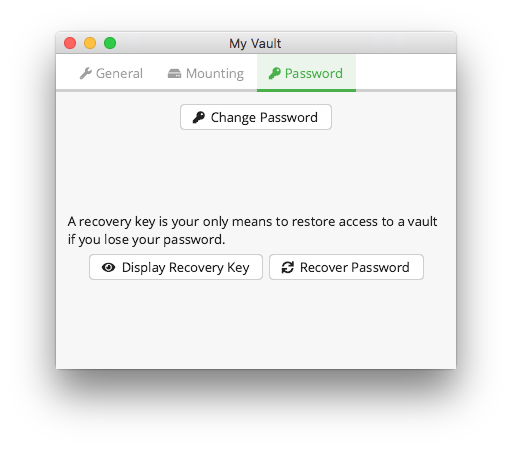
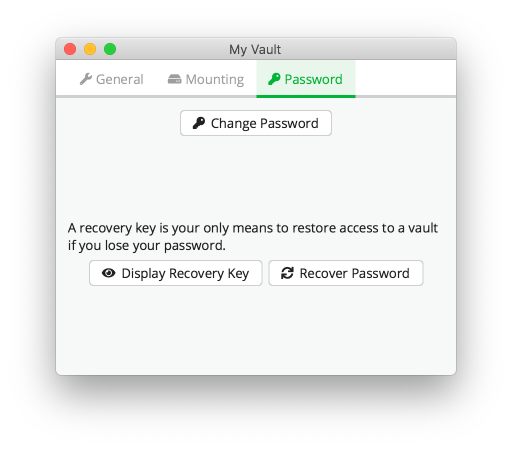
Added Vault option pictures + minor refinements

Changed region(s): [[0.0938, 0.0624, 0.9062, 0.3118], [0.125, 0.4677, 0.875, 0.6236], [0.0938, 0.8107, 0.9062, 0.8419]]

diff --git a/source/desktop/password-and-recovery-key.rst b/source/desktop/password-and-recovery-key.rst
@@ -2,7 +2,7 @@ Password And Recovery Key
 =========================
 
 Each Cryptomator vault is secured by a password.
-The security of your vault depends directly on the strength of its password, so we :ref:`choosing a strong password <security/best-practices/good-passwords>` is key.
+The security of your vault depends directly on the strength of its password, so :ref:`choosing a strong password <security/best-practices/good-passwords>` is key.
 
 Additionally for each vault exists a unique *recovery key*.
 This key ensures that if you forget your password, you are able to create a new one.
@@ -26,7 +26,8 @@ The only thing you need is to remember the current one.
 To do so, click on the ``Change Password`` button in the ``Password`` tab of the vault options.
 In the opened window, you see three text input fields:
 
-.. todo:: TODO add image to for change password dialog)
+.. image:: ../img/desktop/change-password-prompt.png
+    :alt: After entering your current passwort, enter your new one and confirm it
 
 1. In the first you need to enter the current password of the vault.
 2. The second one takes the new password in and as already said, we suggest to follow the creation rules for :ref:`good passwords <security/best-practices/good-passwords>`.
@@ -42,7 +43,7 @@ To finish the workflow and really change the password, click now on the ``Change
 
 .. note::
 
-    The password is used to derive a `KEK <https://en.wikipedia.org/wiki/Glossary*of*cryptographic*keys>`_, which is then used to encrypt further keys. The KEK changes, but the keys encrypted with the KEK will stay the same. The actual files will not get re-encrypted, meaning you can not upgrade a weak passphrase to a stronger one once the data has been synced to a service that allows recovery of older versions of the masterkey file.
+    The password is used to derive a `KEK <https://en.wikipedia.org/wiki/Glossary_of_cryptographic_keys>`_, which is then used to encrypt further keys. The KEK changes, but the keys encrypted with the KEK will stay the same. The actual files will not get re-encrypted, meaning you can not upgrade a weak passphrase to a stronger one once the data has been synced to a service that allows recovery of older versions of the masterkey file.
     
     If you like to encrypt your vault files with a new, stronger password, you need to create a new vault and drag the data from the old to the new one. Make sure to wipe all backups of the old vault afterwards.
 
@@ -53,18 +54,21 @@ Show Recovery Key
 -----------------
 
 It is no problem, if you missed during vault creation to generate a recovery key.
-You are still able to generate and view at a later point in time.
+You are still able to generate it and view it at a later point in time.
 To ensure safety, Cryptomator does not store it on your hard drive and always generates it on the fly.
 
 .. warning::
 
     Bear in mind that due to the ability of the recovery key to reset the current password, it is highly confidential.
-    Ensure that only trusted persons have access to it and keep it a safe spot.
 
-To do so, click on the ``Display Recovery Key`` in the ``Password`` tab of the ``Vault Options``.
-The open window shows inside a text field a sequence of words, the recovery key of the vault.
+    Ensure that only trusted persons have access to it and keep it at a safe spot.
 
-.. todo:: add image show recovery key dialog
+To do so, click on the ``Display Recovery Key`` in the ``Password`` tab of the ``Vault Options`` and enter your password.
+A new window will open. It shows a sequence of words inside a text field. This sequence is the recovery key of the vault.
+
+.. image:: ../img/desktop/recoverykey.png
+    :alt: This shows your recoverykey
+
 
 You can copy it to your clipboard or print it to paper.
 If you are finished, close the window with the ``Done`` button.

diff --git a/source/desktop/vault-management.rst b/source/desktop/vault-management.rst
@@ -39,15 +39,28 @@ Each vault has an own set of settings which can be viewed and customized in the 
 To open it, select in the main window the *locked* vault in question and click the ``Vault Options`` button with the gear.
 
 
-.. todo:: image of vault options dialog
-
 The options are divided in three categories:
 
 1. General - Options not fitting into another category
+
+You can select here if the vault is unlocked as soon as Cryptomator starts.
+
+.. image:: ../img/desktop/vault-options-general.png
+    :alt: General vault options
+
+
 2. Mounting - All options about where and how you can access your unlocked vault
+
+.. image:: ../img/desktop/vault-options-mounting.png
+    :alt: Vault options for mounting
+
 3. Password - Options and actions regarding your vault password and the recovery key
 
-In the ``General`` tab you can select if the vault is unlocked as soon as Cryptomator starts.
+.. image:: ../img/desktop/vault-options-password.png
+    :alt: Vault options regarding the password
+
+
+
 
 For |Mounting|_ and |Password|_ we refer to the regarding sections.
 

diff --git a/source/desktop/accessing-vaults.rst b/source/desktop/accessing-vaults.rst
@@ -56,4 +56,9 @@ If you can not find the unlocked vault in your systems file manager (Windows Exp
 Locking a vault
 ---------------
 
-TODO
+To lock your vault again simply click ``Lock`` and your data will be protected and encrypted again.
+
+.. image:: ../img/desktop/vault-detail-locked.png
+    :alt: Cryptomator window showing an locked vault
+
+
